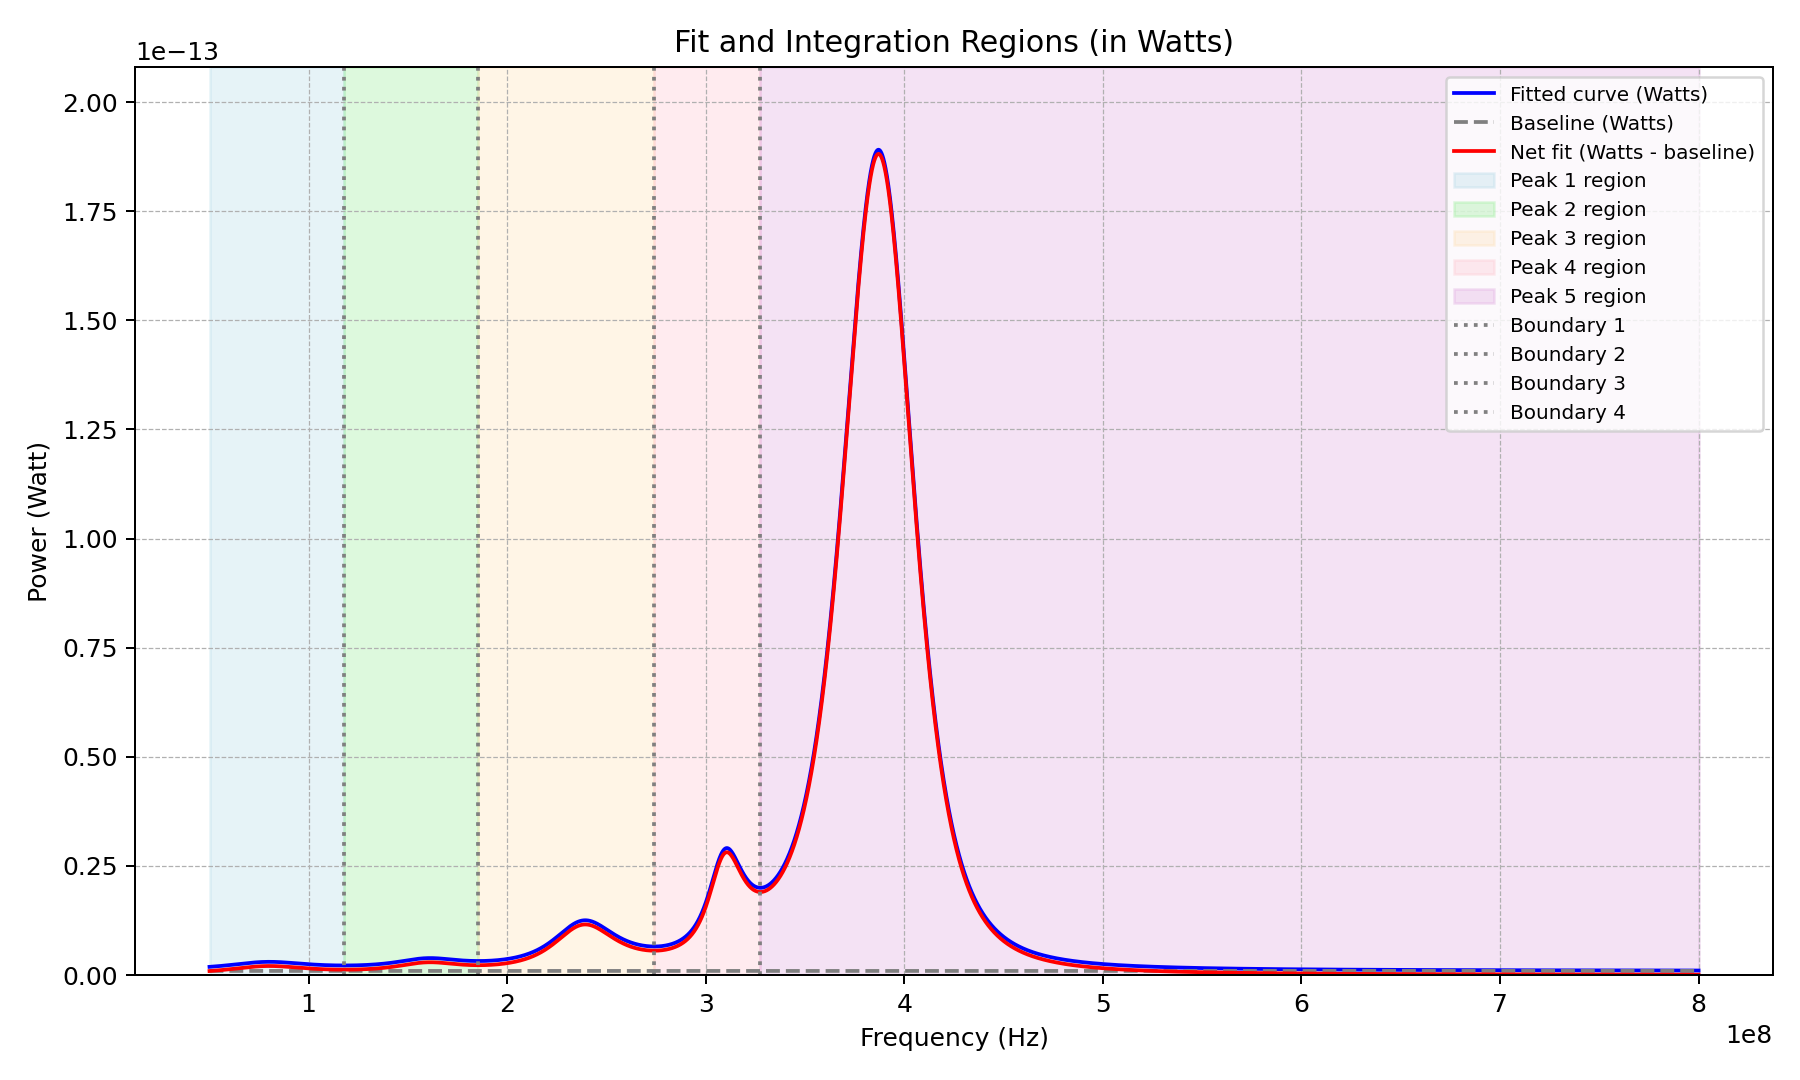
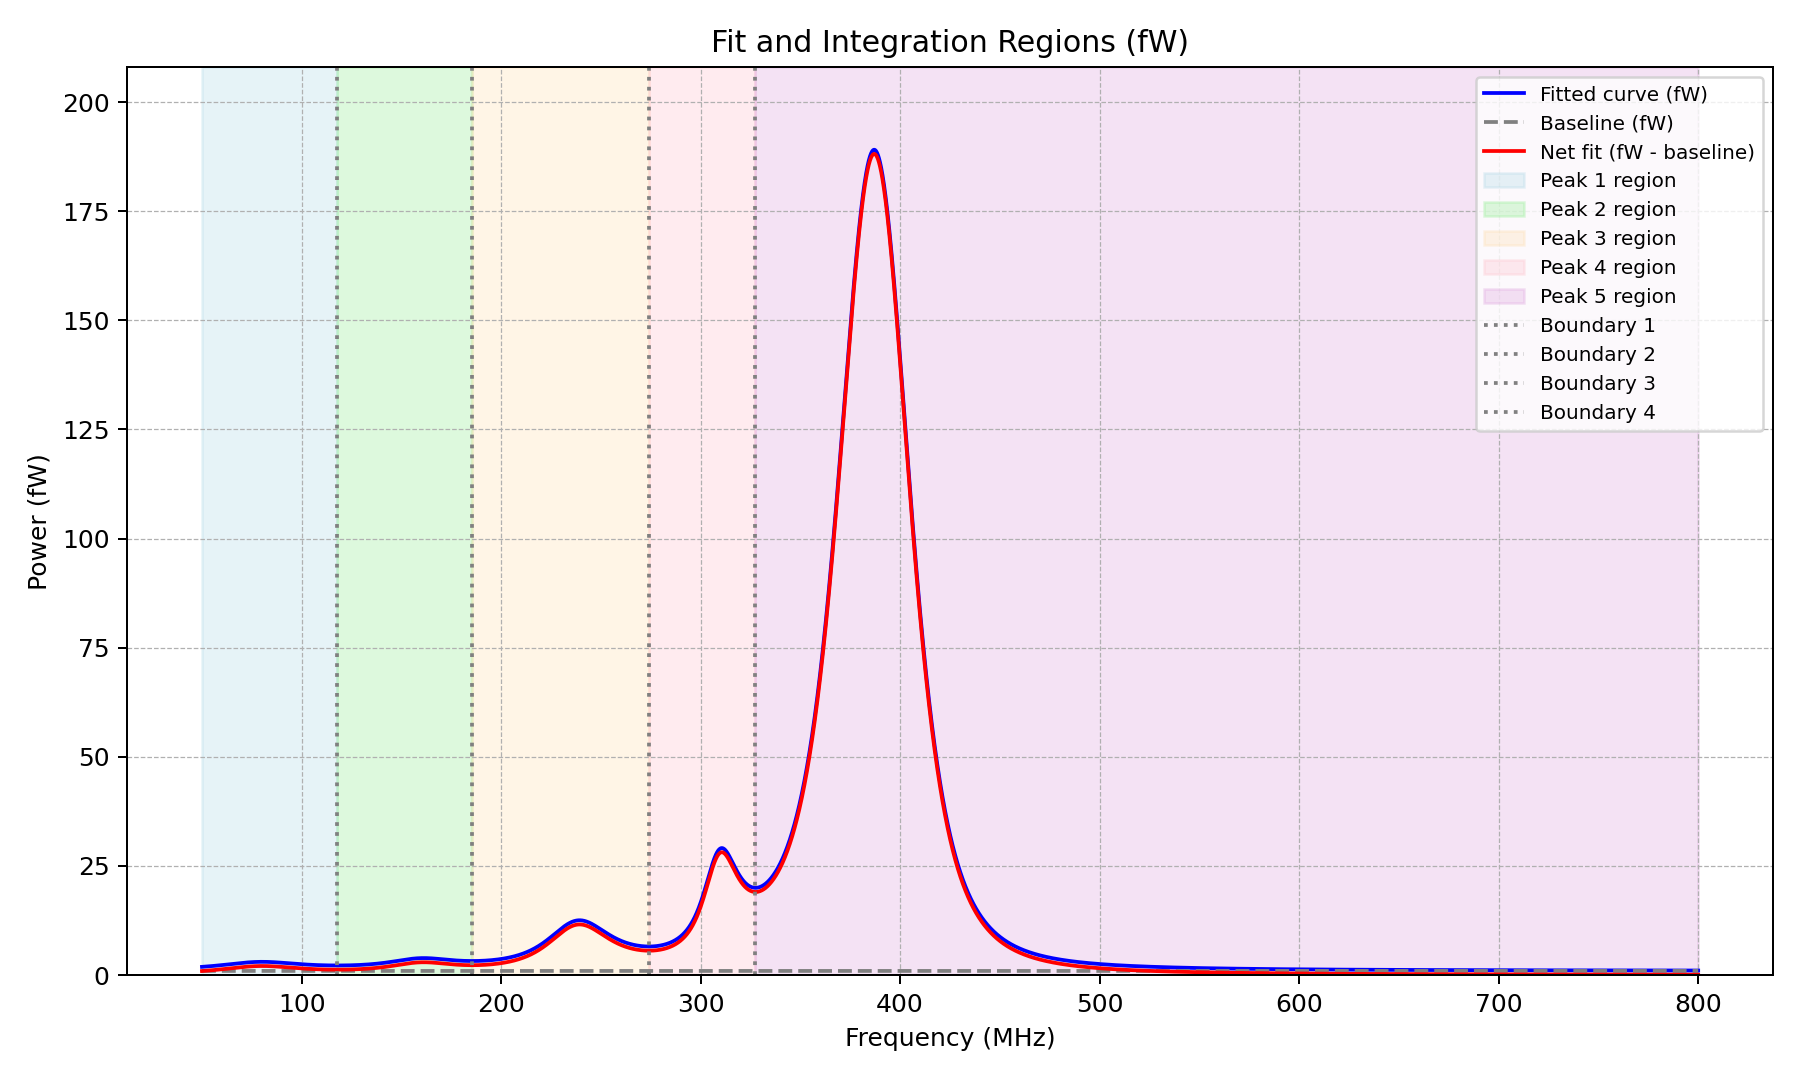
Fixed heterodyne graphs as well

diff --git a/heterodyne_osa_analysis.py b/heterodyne_osa_analysis.py
@@ -427,27 +427,34 @@ def analyze_session2():
 
 				idxs = [np.searchsorted(dense_x, b) for b in boundaries]
 
+				# --- Dynamic Y-axis scaling logic ---
+				max_power_watt = np.max(fit_y_watt)
+				if max_power_watt >= 1e-12:
+					y_conversion_factor, y_unit = 1e12, 'pW' # picowatts
+				else:
+					y_conversion_factor, y_unit = 1e15, 'fW' # femtowatts
+
 				# Plot with integration regions for all 6
 				plt.figure(figsize=(10, 6))
-				plt.plot(dense_x, fit_y_watt, label='Fitted curve (Watts)', color='blue')
-				plt.plot(dense_x, np.full_like(dense_x, baseline_watt), 
-				     label='Baseline (Watts)', color='gray', linestyle='--')
-				plt.plot(dense_x, net_fit_y, label='Net fit (Watts - baseline)', color='red')
+				plt.plot(dense_x_mhz, fit_y_watt*y_conversion_factor, label=f'Fitted curve ({y_unit})', color='blue')
+				plt.plot(dense_x_mhz, np.full_like(dense_x_mhz, baseline_watt*y_conversion_factor), 
+				     label=f'Baseline ({y_unit})', color='gray', linestyle='--')
+				plt.plot(dense_x_mhz, net_fit_y*y_conversion_factor, label=f'Net fit ({y_unit} - baseline)', color='red')
 
 				colors = ['lightblue', 'lightgreen', 'navajowhite', 'pink', 'plum', 'lightcoral']
 				for i in range(6):
-					plt.axvspan(dense_x[idxs[i]], dense_x[idxs[i+1]], color=colors[i], alpha=0.3, label=f'Peak {i+1} region')
+					plt.axvspan(dense_x[idxs[i]] / 1e6, dense_x[idxs[i+1]] / 1e6, color=colors[i], alpha=0.3, label=f'Peak {i+1} region')
 
 				for i in range(1, 6):
-					plt.axvline(dense_x[idxs[i]], color='gray', linestyle=':', label=f'Boundary {i}')
+					plt.axvline(dense_x[idxs[i]] / 1e6, color='gray', linestyle=':', label=f'Boundary {i}')
 
-				plt.xlabel('Frequency (Hz)')
-				plt.ylabel('Power (Watt)')
-				plt.title('Fit and Integration Regions (in Watts)')
+				plt.xlabel('Frequency (MHz)')
+				plt.ylabel(f'Power ({y_unit})')
+				plt.title(f'Fit and Integration Regions ({y_unit})')
 				plt.grid(True, which='both', linestyle='--', linewidth=0.5)
 				plt.legend(loc='upper right', fontsize=8)
 				plt.tight_layout()
-				max_display = max(np.max(fit_y_watt), np.max(net_fit_y)) * 1.1
+				max_display = max(np.max(fit_y_watt), np.max(net_fit_y)) * 1.1 * y_conversion_factor
 				plt.ylim(bottom=0, top=max_display)
 
 				save_path = os.path.join(image_folder, f'{str(round(float(just_name[:-14])*9/1000, 2))}_Watt.png')
@@ -591,29 +598,36 @@ def analyze_session2():
 				net_fit_y = fit_y_watt - baseline_watt
 
 				idxs = [np.searchsorted(dense_x, b) for b in boundaries]
+
+				# --- Dynamic Y-axis scaling logic ---
+				max_power_watt = np.max(fit_y_watt)
+				if max_power_watt >= 1e-12:
+					y_conversion_factor, y_unit = 1e12, 'pW' # picowatts
+				else:
+					y_conversion_factor, y_unit = 1e15, 'fW' # femtowatts
 				
 
 				# Plot with integration regions for all 5
 				plt.figure(figsize=(10, 6))
-				plt.plot(dense_x, fit_y_watt, label='Fitted curve (Watts)', color='blue')
-				plt.plot(dense_x, np.full_like(dense_x, baseline_watt), 
-				     label='Baseline (Watts)', color='gray', linestyle='--')
-				plt.plot(dense_x, net_fit_y, label='Net fit (Watts - baseline)', color='red')
+				plt.plot(dense_x_mhz, fit_y_watt*y_conversion_factor, label=f'Fitted curve ({y_unit})', color='blue')
+				plt.plot(dense_x_mhz, np.full_like(dense_x_mhz, baseline_watt*y_conversion_factor), 
+				     label=f'Baseline ({y_unit})', color='gray', linestyle='--')
+				plt.plot(dense_x_mhz, net_fit_y*y_conversion_factor, label=f'Net fit ({y_unit} - baseline)', color='red')
 
 				colors = ['lightblue', 'lightgreen', 'navajowhite', 'pink', 'plum', 'lightcoral']
 				for i in range(5):
-					plt.axvspan(dense_x[idxs[i]], dense_x[idxs[i+1]], color=colors[i], alpha=0.3, label=f'Peak {i+1} region')
+					plt.axvspan(dense_x[idxs[i]] / 1e6, dense_x[idxs[i+1]] / 1e6, color=colors[i], alpha=0.3, label=f'Peak {i+1} region')
 
 				for i in range(1, 5):
-					plt.axvline(dense_x[idxs[i]], color='gray', linestyle=':', label=f'Boundary {i}')
+					plt.axvline(dense_x[idxs[i]] / 1e6, color='gray', linestyle=':', label=f'Boundary {i}')
 
-				plt.xlabel('Frequency (Hz)')
-				plt.ylabel('Power (Watt)')
-				plt.title('Fit and Integration Regions (in Watts)')
+				plt.xlabel('Frequency (MHz)')
+				plt.ylabel(f'Power ({y_unit})')
+				plt.title(f'Fit and Integration Regions ({y_unit})')
 				plt.grid(True, which='both', linestyle='--', linewidth=0.5)
 				plt.legend(loc='upper right', fontsize=8)
 				plt.tight_layout()
-				max_display = max(np.max(fit_y_watt), np.max(net_fit_y)) * 1.1
+				max_display = max(np.max(fit_y_watt), np.max(net_fit_y)) * 1.1 * y_conversion_factor
 				plt.ylim(bottom=0, top=max_display)
 
 				save_path = os.path.join(image_folder, f'{str(round(float(just_name[:-14])*9/1000, 2))}_Watt.png')
